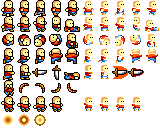
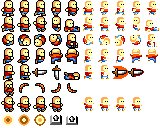
Chest

Changed region(s): [[0.3125, 0.9062, 0.5, 1.0]]

diff --git a/src/objectmanager.js b/src/objectmanager.js
@@ -6,6 +6,7 @@
  */
 
 import { Bullet } from "./bullet.js";
+import { Chest } from "./chest.js";
 import { Collectible } from "./collectible.js";
 import { clamp, nextObject } from "./core/util.js";
 import { getEnemyType } from "./enemytypes.js";
@@ -24,7 +25,7 @@ export class ObjectManager {
         this.flyingText = new Array();
         this.collectibles = new Array();
         this.bullets = new Array();
-        this.savepoints = new Array();
+        this.interactableObjects = new Array();
 
         this.progress = progress;
     }
@@ -55,7 +56,13 @@ export class ObjectManager {
                 // Savepoint
                 case 32:
 
-                    this.savepoints.push(new Savepoint(x*16+8, y*16+8));
+                    this.interactableObjects.push(new Savepoint(x*16+8, y*16+8));
+                    break;
+
+                // Chest
+                case 33:
+
+                    this.interactableObjects.push(new Chest(x*16+8, y*16+8, -1));
                     break;
 
                 default:
@@ -101,7 +108,7 @@ export class ObjectManager {
         this.flyingText = new Array();
         this.collectibles = new Array();
         this.bullets = new Array();
-        this.savepoints = new Array();
+        this.interactableObjects = new Array();
 
         stage.parseObjects(this);
         this.player.respawnToCheckpoint(checkpoint);
@@ -149,11 +156,11 @@ export class ObjectManager {
             t.update(ev);
         }
 
-        for (let s of this.savepoints) {
+        for (let o of this.interactableObjects) {
 
-            s.checkIfInCamera(cam);
-            s.update(ev);
-            s.playerCollision(this.player, ev);
+            o.checkIfInCamera(cam);
+            o.update(ev);
+            o.playerCollision(this.player, ev);
         }
 
         for (let b of this.bullets) {
@@ -179,9 +186,9 @@ export class ObjectManager {
 
     draw(c) {
 
-        for (let s of this.savepoints) {
+        for (let o of this.interactableObjects) {
 
-            s.draw(c);
+            o.draw(c);
         }
 
         for (let e of this.enemies) {
@@ -287,9 +294,9 @@ export class ObjectManager {
             e.checkIfInCamera(cam);
         }
 
-        for (let s of this.savepoints) {
+        for (let o of this.interactableObjects) {
 
-            s.playerCollision(this.player, null);
+            o.playerCollision(this.player, null);
         }
     }
 }

diff --git a/src/player.js b/src/player.js
@@ -86,6 +86,9 @@ export class Player extends CollisionObject {
         this.inCamera = true;
 
         this.deathTimer = 0;
+
+        this.showArrow = false;
+        this.showArrowTimer = 0.0;
     }
 
 
@@ -609,6 +612,13 @@ export class Player extends CollisionObject {
         const SWIMMING_MOD_Y = 0.5;
         const SLIDE_SPEED = 2.0;
         const CHARGE_MAX = 20; // Could be anything, really
+        const SHOW_ARROW_SPEED = 1.0 / 30.0;
+
+        if (this.showArrow) {
+
+            this.showArrowTimer += SHOW_ARROW_SPEED * ev.step;
+            this.showArrowTimer %= 1.0;
+        }
 
         if (this.jumpTimer > 0) {
 
@@ -717,6 +727,7 @@ export class Player extends CollisionObject {
 
         this.canJump = false;
         this.touchWall = false;
+        this.showArrow = false;
     }
 
 
@@ -759,6 +770,8 @@ export class Player extends CollisionObject {
         if (this.dying) {
 
             this.drawDeath(c);
+            this.boomerang.draw(c);
+
             return;
         }
 
@@ -795,17 +808,12 @@ export class Player extends CollisionObject {
 
         this.boomerang.draw(c);
 
-/*
-        c.setColor(255, 0, 0);
-        if (this.attackTimer > 0 && this.swordAttack) {
+        if (this.showArrow) {
 
-            c.fillRect(
-                this.swordHitPos.x-this.swordHitSize.x/2,
-                this.swordHitPos.y-this.swordHitSize.y/2,
-                this.swordHitSize.x, this.swordHitSize.y);
-            
+            this.spr.drawFrame(c, c.bitmaps["figure"],
+                3 + Math.floor(this.showArrowTimer/0.5),
+                7, px, py - 16, Flip.None);
         }
-*/
     }
 
 
@@ -1132,5 +1140,12 @@ export class Player extends CollisionObject {
 
             this.progress.addHealth(2);
         }
+    }
+
+
+    showInteractionArrow() {
+
+        this.showArrow = true;
+        // this.showArrowTimer = 0.0;
     }
 }

diff --git a/src/chest.js b/src/chest.js
@@ -1,0 +1,87 @@
+/**
+ * A Graveyard for Fools
+ * 
+ * (c) 2020 Jani Nykänen
+ */
+
+import { Flip } from "./core/canvas.js";
+import { InteractableObject } from "./interactableobject.js";
+
+
+export class Chest extends InteractableObject {
+
+
+    constructor(x, y, itemId) {
+
+        super(x, y);
+
+        this.opened = false;
+        this.opening = false;
+        this.itemId = itemId;
+
+        this.isHealth = itemId < 0;
+
+        this.flip = Flip.None;
+
+        this.spr.setFrame(0, this.isHealth ? 2 : 0);
+    }
+
+
+    update(ev) {
+
+        if (!this.inCamera || this.opened) return;
+
+        const ANIM_SPEED = 8;
+        const OPEN_SPEED = 6;
+
+        let row = this.isHealth ? 2 : 0;
+
+        if (!this.opening) {
+
+            this.spr.animate(row, 
+                0, 3, ANIM_SPEED, ev.step);
+        }
+        else {
+            
+            if (this.spr.frame < 3) {
+
+                this.spr.animate(row + 1, 
+                    0, 3, OPEN_SPEED, ev.step);
+
+                if (this.spr.frame == 3) {
+
+                    this.opened = true;
+                    this.opening = false;
+                }
+            }
+        }
+    }
+
+
+    draw(c) {
+
+        if (!this.inCamera) return;
+
+        this.spr.draw(c, c.bitmaps["chest"],
+            this.pos.x-8, this.pos.y-8,
+            this.flip);
+    }
+
+    
+    triggerEvent(pl, ev) {
+
+        if (this.opening) return;
+
+        this.opening = true;
+        this.disabled = true;
+
+        this.spr.setFrame(0, this.isHealth ? 3 : 1);
+    }
+
+
+    playerEvent(pl, ev) {
+
+        this.flip = pl.pos.x < this.pos.x ? Flip.None : Flip.Horizontal;
+    }
+
+}

diff --git a/src/interactableobject.js b/src/interactableobject.js
@@ -20,6 +20,8 @@ export class InteractableObject {
 
         this.inCamera = true;
         this.flip = Flip.None;
+
+        this.disabled = false;
     }
 
 
@@ -36,18 +38,25 @@ export class InteractableObject {
 
     playerCollision(pl, ev) {
 
+        if (this.disabled || !this.inCamera || pl.dying) 
+            return false;
+
         this.playerEvent(pl, ev);
 
-        if (!this.inCamera || pl.dying) 
+        if (ev == null) 
             return false;
 
         if (pl.overlay(this.pos.x-8, this.pos.y-8, 16, 16)) {
 
+
             this.playerCollisionEvent(pl, ev);
 
-            if (pl.canJump && ev.input.upPress()) {
+            if (pl.canJump) {
 
-                this.triggerEvent(pl, ev);
+                pl.showInteractionArrow();
+
+                if (ev.input.upPress())
+                    this.triggerEvent(pl, ev);
             }
             return true;
         }   
